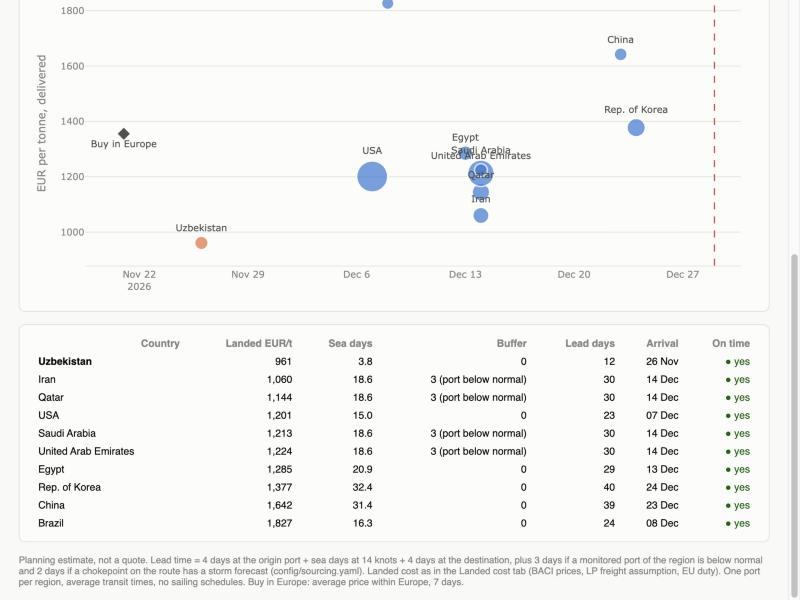
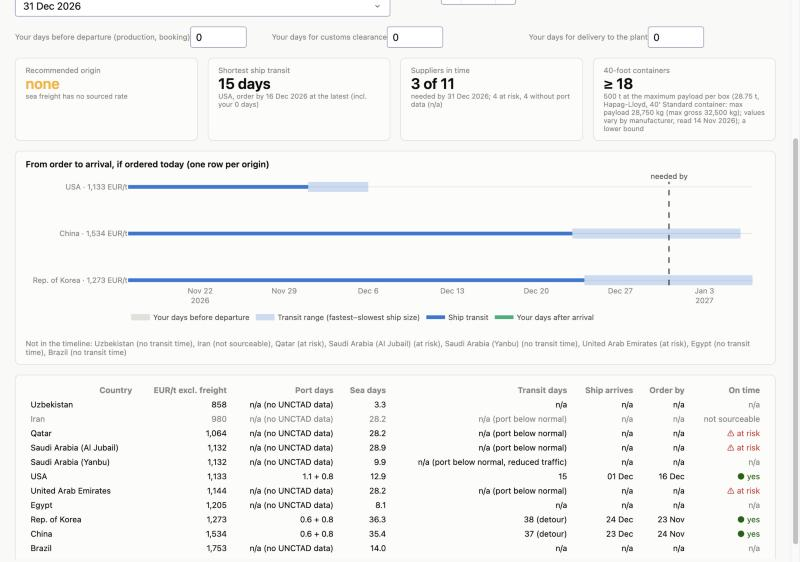
docs: spec 018 methodology, changelog and new dashboard screenshots

diff --git a/docs/methodology.md b/docs/methodology.md
@@ -776,3 +776,33 @@ rate (OECD via FRED, `IR3TIB01EZM156N`, monthly; 2.03 % in January 2026) × ship
 days / 365 – n/a where the transit time is n/a. Insurance (% of the price), port handling
 and on-carriage (EUR/t) enter only as the buyer's quotes; everything left out is listed
 under the table.
+
+
+## 14. Charts for the buyer (spec 018)
+
+**Situation:** a summary sentence built only from the three lights and the scenario
+("Supply critical: 16–39 % … at risk behind Hormuz, 12 % on a detour; price mixed; logistics
+elevated"). The price card shows the 90-day and the 30-day change of Brent in EUR; when the
+two point in opposite directions and are at least 10 percentage points apart (setting), the
+card says "Mixed" (watch level) instead of OK – on 14 Nov 2026 Brent was +3.5 % over 90
+days but −28.8 % over 30 days. "What changed" lists only changes of level, storm (red)
+forecasts near relevant points and market moves of at least 5 % (settings), each with a
+fixed, neutral note for the buyer (no forecast). Chokepoints and open events are one list:
+events within the relevance radius sit under their chokepoint.
+
+**Polymer over crude:** Dalian LLDPE minus Brent per tonne, both in the chosen currency;
+Brent in USD/bbl × 7.32 barrels per tonne (UN Energy Statistics Yearbook 2023, Table II,
+crude oil of average specific gravity), taken from the last Brent day up to four days before
+each Dalian trading day. A rising spread means polymer prices rise faster than crude: margin
+rather than feedstock. Not a producer margin: naphtha, ethane and conversion costs are not
+in it. The daily Dalian price is the close of the day session at 15:00 Beijing time (Nanhua
+Futures' overview of DCE trading hours).
+
+**Destinations in Europe:** BACI's importer country, grouped by a setting (North-West
+Europe, Mediterranean, Turkey, Central & Eastern Europe, other). Turkey is the largest
+single destination of extra-European PE in 2024 (1.9 Mt). Only for all grades together –
+the bilateral mart has no grade split.
+
+**Planner timeline:** the transit band runs from the fastest to the slowest container ship
+size of the IMO table (16.5 and 11.8 knots), e.g. 24.5 to 34.3 sea days for 9,720 nm. It
+shows how much the ship speed alone moves the arrival, not loading, waiting or clearance.

diff --git a/specs/018-charts.md b/specs/018-charts.md
@@ -1,6 +1,6 @@
 # 018 – Charts that answer the buyer's question
 
-- **Status:** draft
+- **Status:** done
 - **Branch / PR:** `feat/charts` / see PR
 - **SPEC.md sections:** 7 (app); phase 4 of the user's dashboard plan (14 Nov 2026); builds
   on the theme of spec 017 and the sourced-values rule (ADR-016)
@@ -97,3 +97,14 @@ need a source like every other value.
   oil (Energy Institute / IEA conversion tables).
 - Settings to confirm: `min_move_pct` 5 %, `divergence_pct` 10 points, destination groups,
   top 15 suppliers.
+
+## Implementation notes (16 Nov 2026)
+
+- Sources: 7.32 barrels per tonne of crude (UN Energy Statistics Yearbook 2023, Table II);
+  DCE day session closes at 15:00 Beijing time (Nanhua Futures trading-hours overview of
+  18 Nov 2024). The old trading-hours text of spec 012 (CET times without a source) is gone.
+- Buyer notes in "what changed" are fixed and neutral ("compare resin offers with it"), no
+  forecasts.
+- Destination groups only for all grades: `mart_bilateral_trade` has no grade split.
+- Currencies: only EUR/USD is drawn; CNY and the dollar index stay in the pipeline (the CNY
+  rate converts the Dalian price).

diff --git a/CHANGELOG.md b/CHANGELOG.md
@@ -6,6 +6,14 @@ versioning (`0.x`: no stable interface yet).
 ## Unreleased
 
 ### Changed
+- Charts that answer the buyer's question (spec 018): summary sentence and one list of
+  chokepoints and disruptions on the situation page, "what changed" with thresholds and
+  buyer notes, price card with 30 and 90 days ("Mixed" when they diverge); polymer-over-
+  crude spread (Dalian LLDPE minus Brent per tonne, UN conversion factor) instead of the
+  index chart, Brent only, gas spread as an area, own freight and EUR/USD charts, GSCPI as
+  context; Sankey to destination groups in Europe and a supplier bar chart instead of the
+  treemap; landed cost as one table with inline bars; planner timeline with the transit
+  range of the IMO ship sizes. README screenshots of the buying tabs updated.
 - One design for all tabs (spec 017): central theme (`ptf.app.theme`) with status colours
   only for status, a validated categorical palette without red, orange, yellow or green,
   one route encoding (open / detour / at risk / not sourceable) and a Plotly template;

diff --git a/specs/README.md b/specs/README.md
@@ -24,4 +24,4 @@ increments.
 | 015 | [Source audit: every number about the world has a source](015-source-audit.md) | done |
 | 016 | [Recommendation logic: sourceable origins, confidence, price ranges, order timing](016-recommendation-logic.md) | done |
 | 017 | [One design: theme, KPI tile, global bar, number formats, method panels](017-design-system.md) | done |
-| 018 | [Charts that answer the buyer's question](018-charts.md) | draft |
+| 018 | [Charts that answer the buyer's question](018-charts.md) | done |
